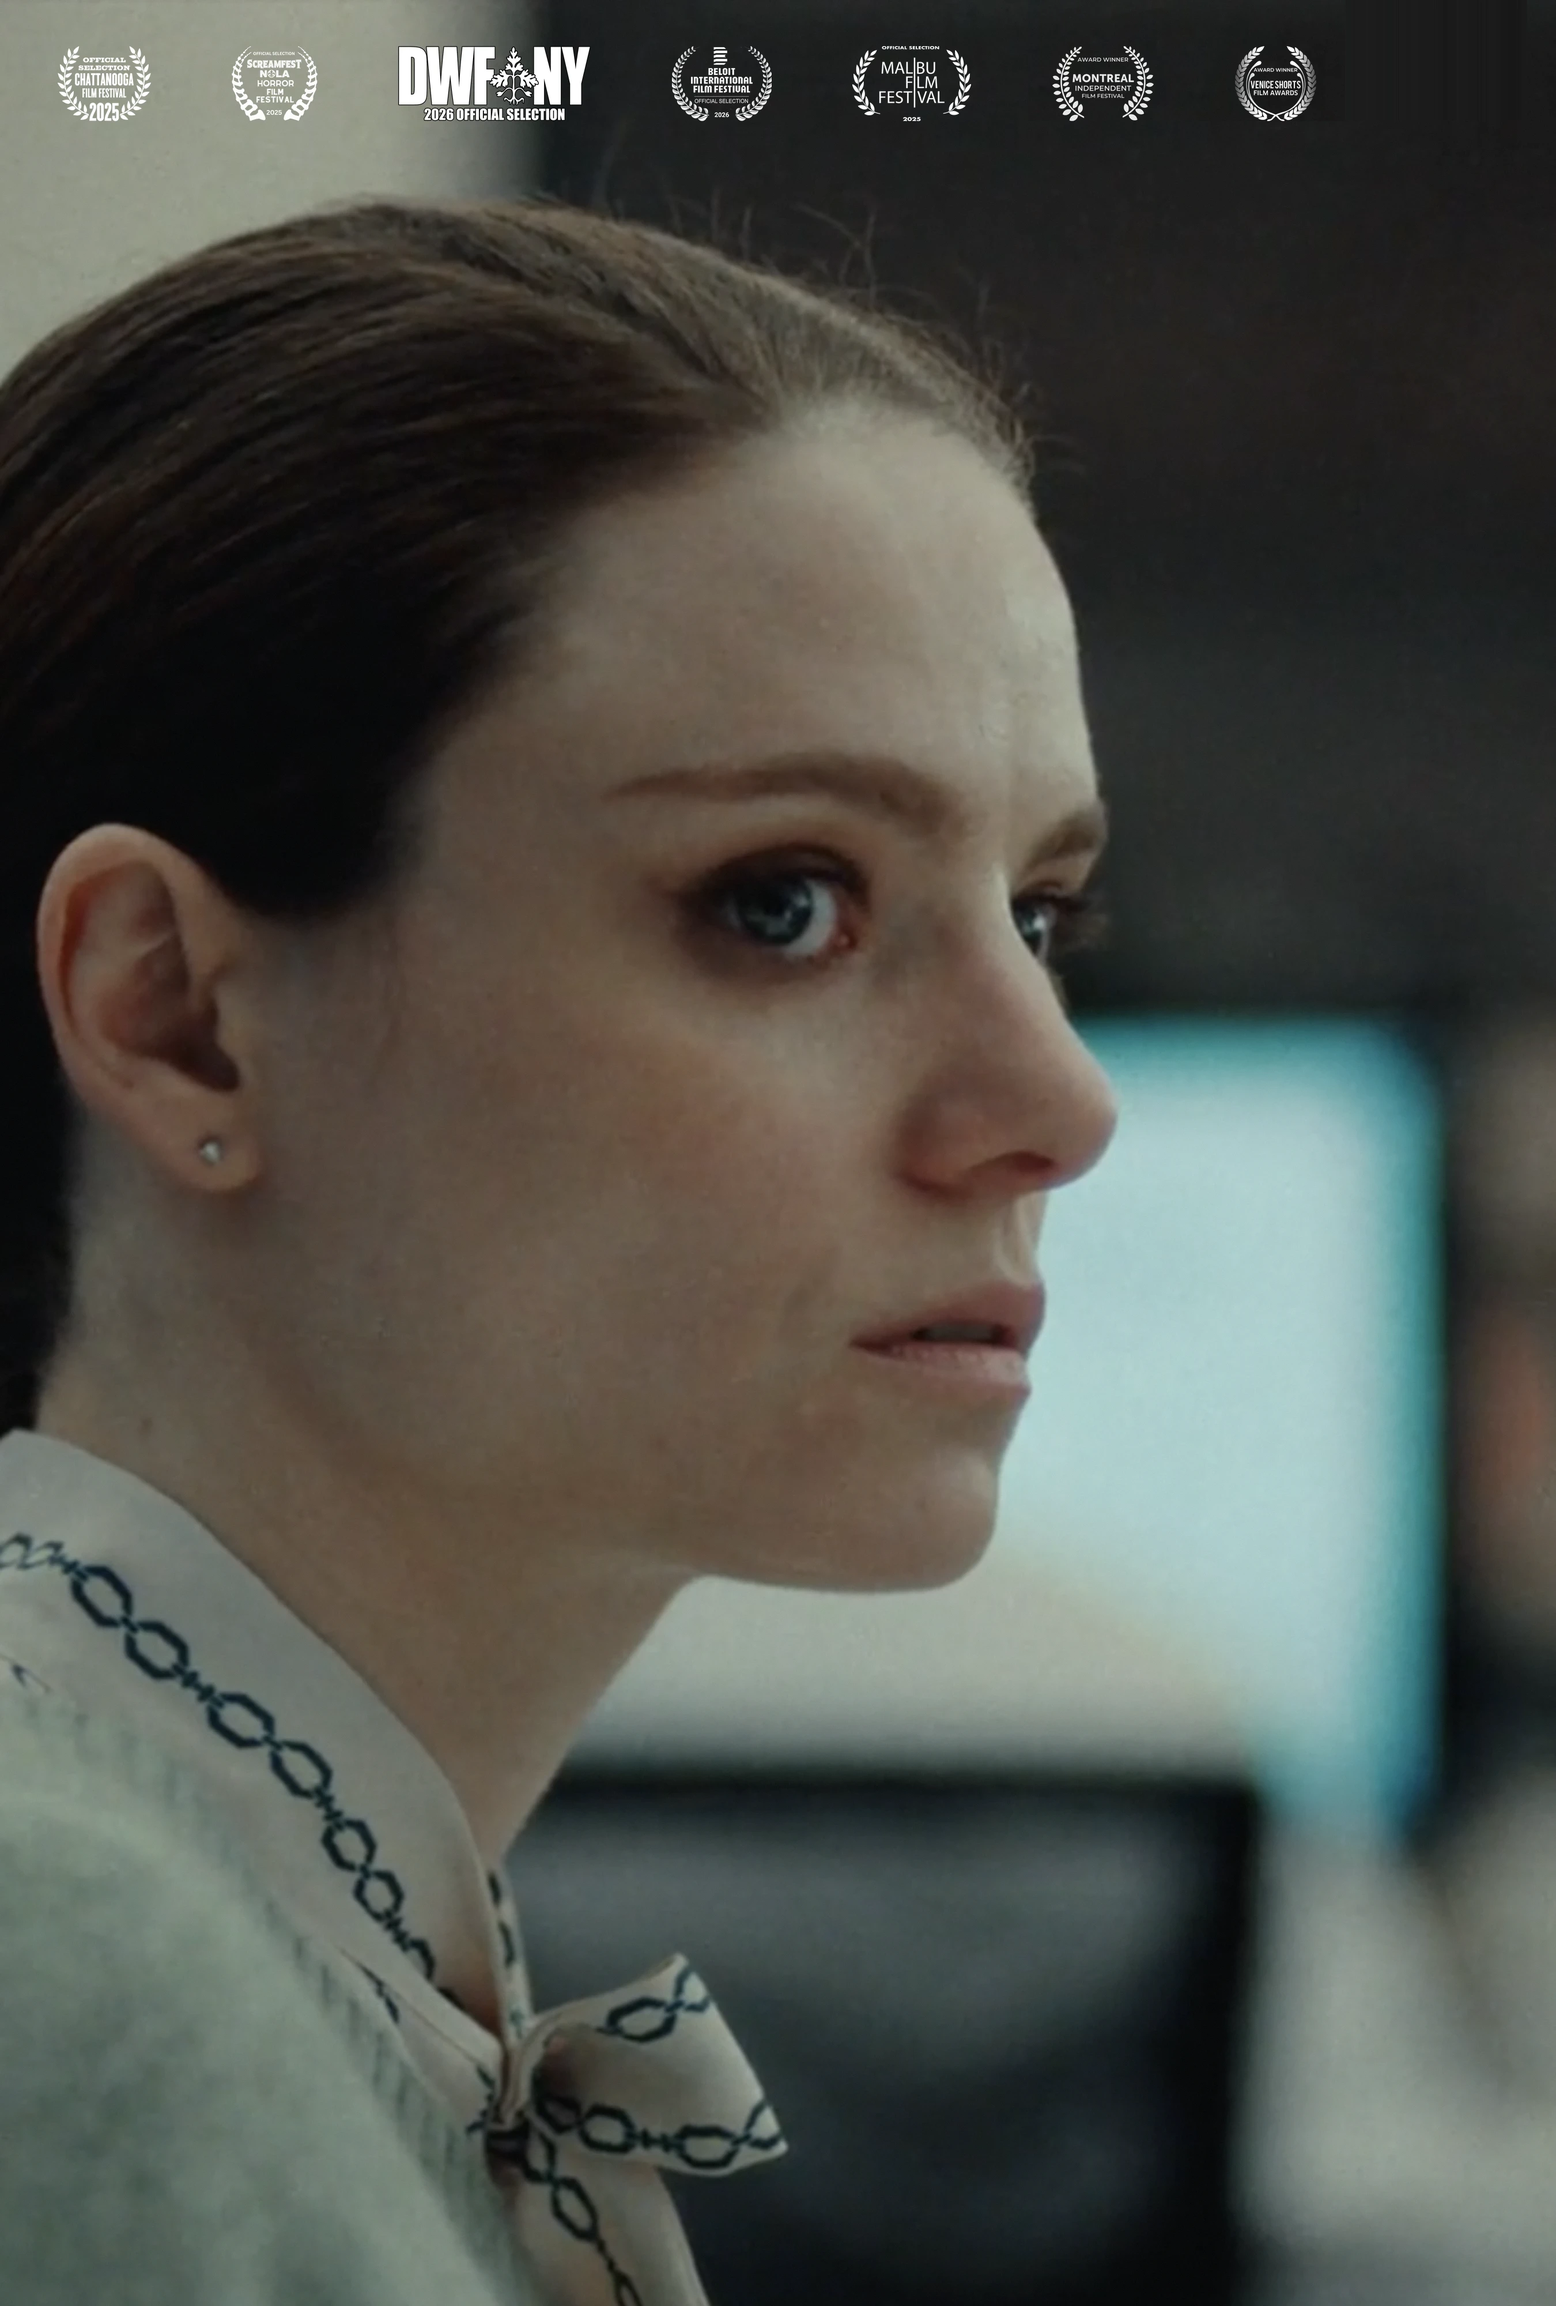
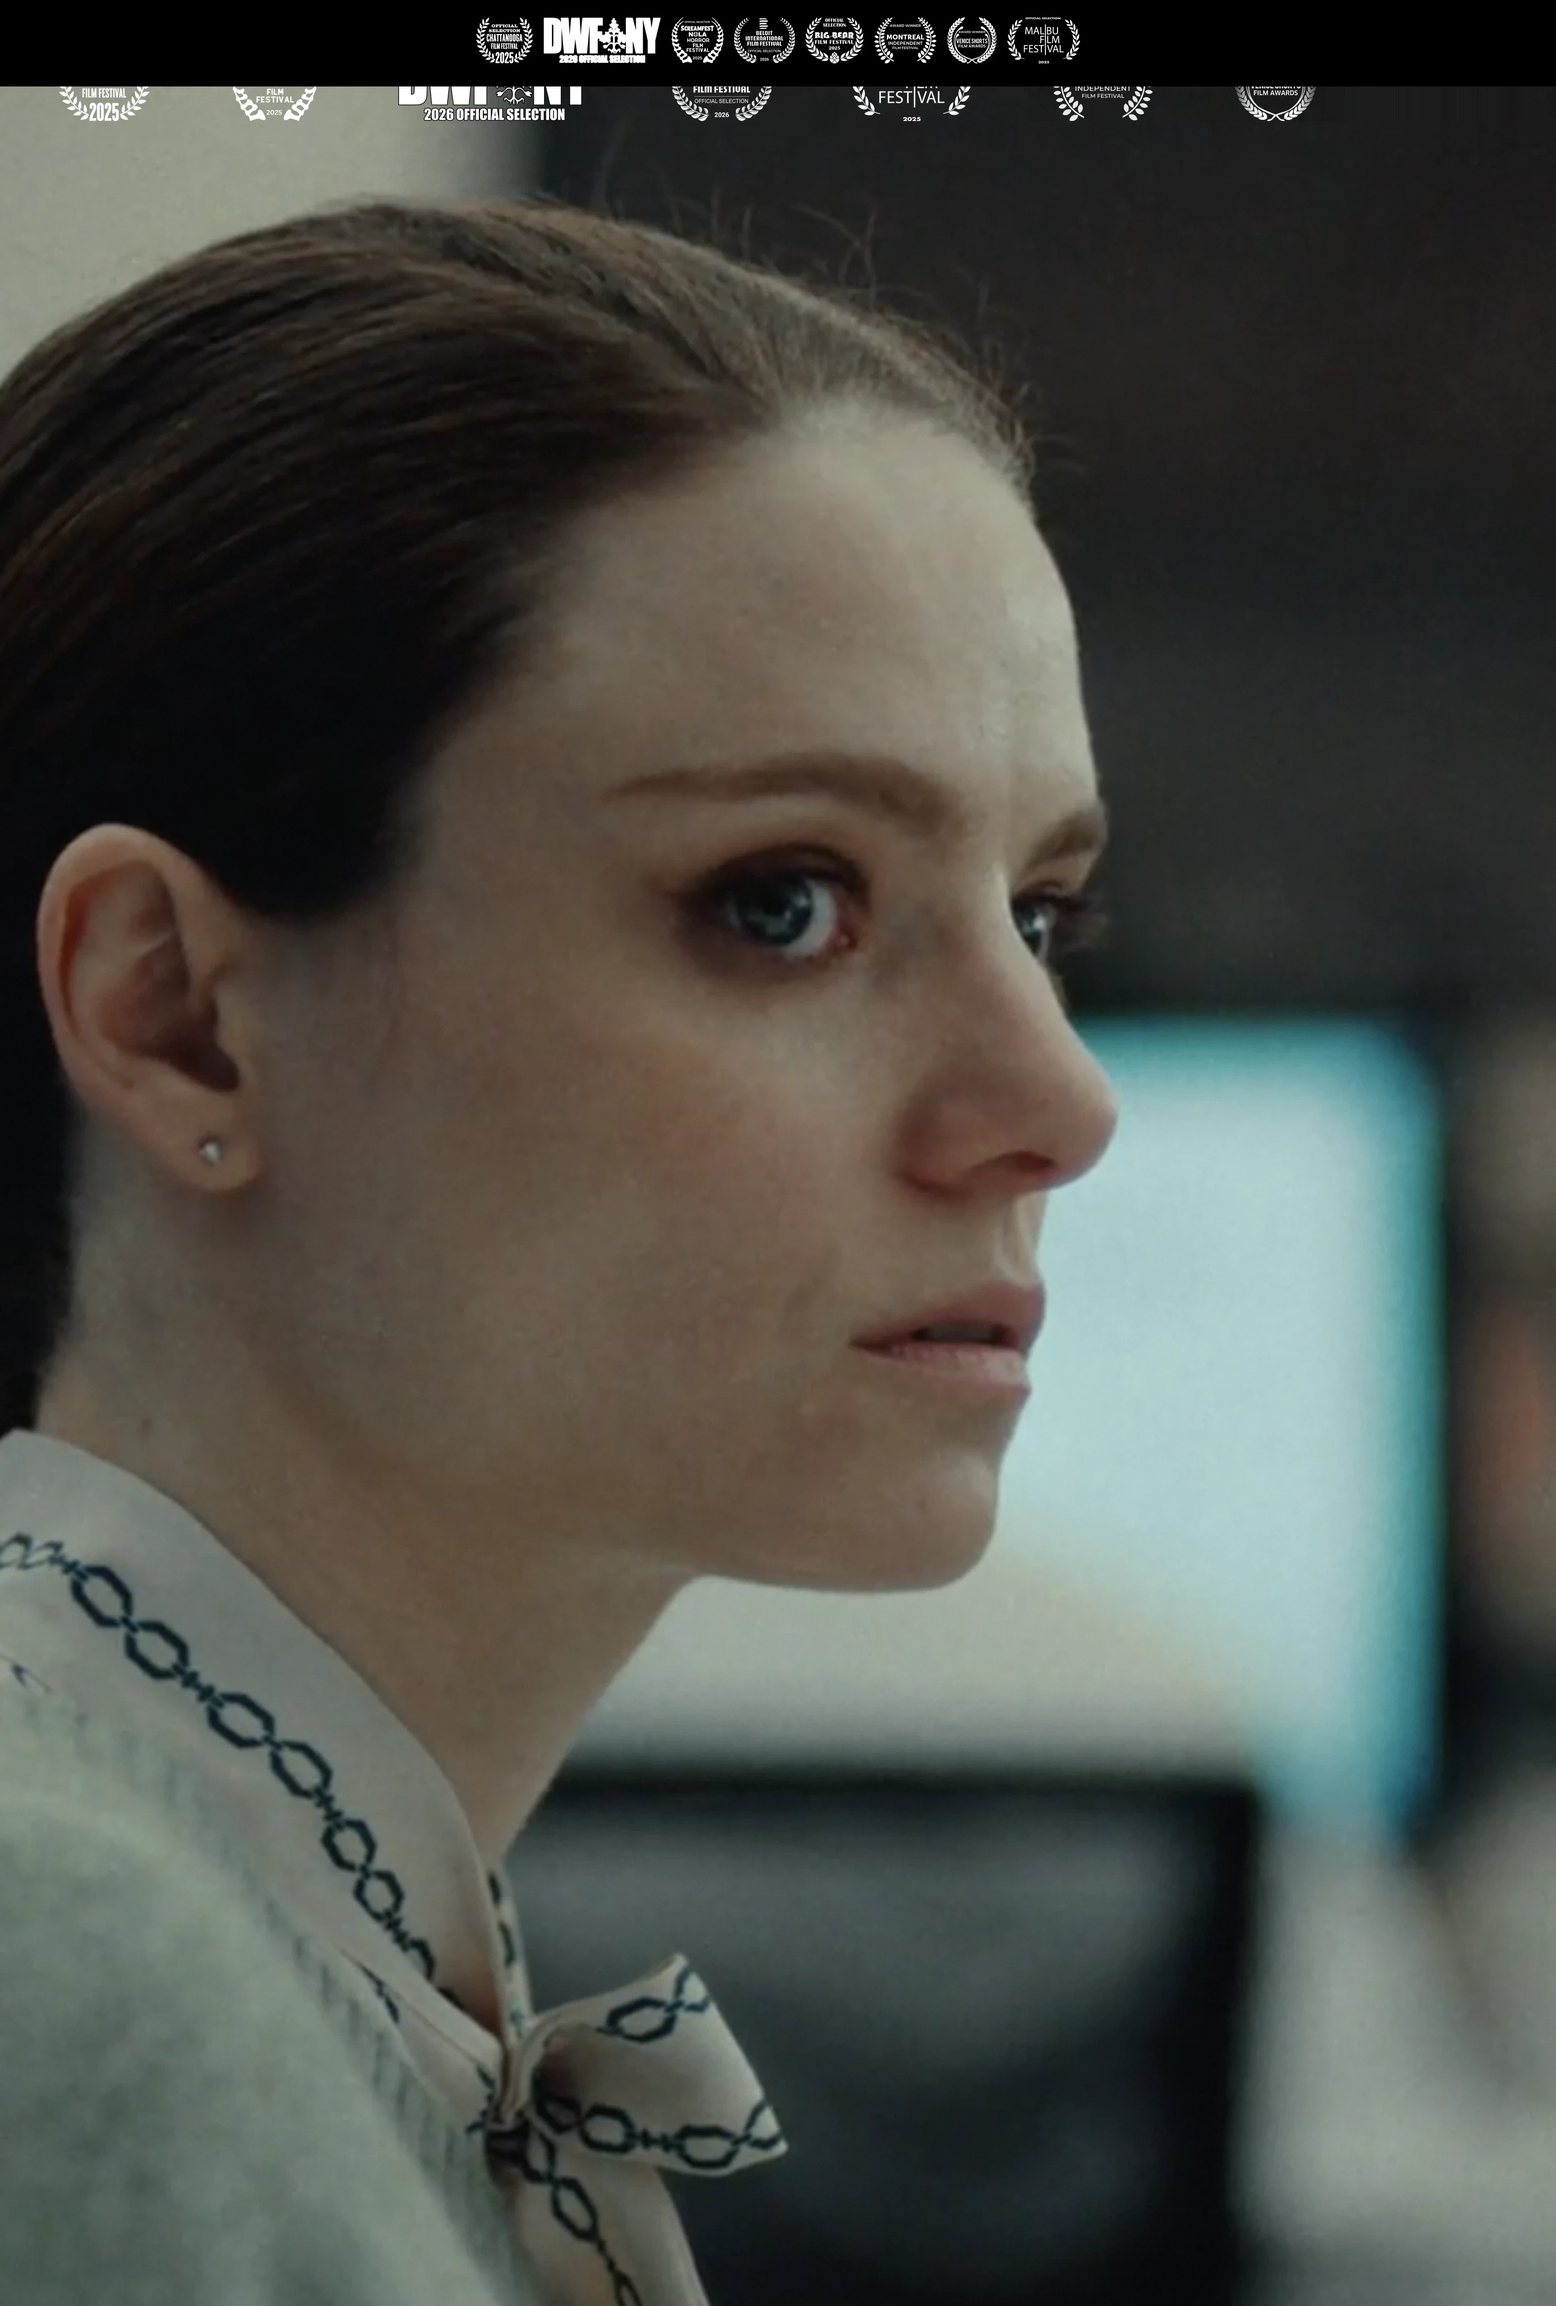
Fix poster laurels, button fix

Changed region(s): [[0.0, 0.0, 1.0, 0.0625]]

diff --git a/index.html b/index.html
@@ -2004,10 +2004,26 @@
         gap: 12px; 
         align-items: stretch;
       }
-      .text-link { 
+      .text-link {
         justify-content: center;
         padding: 14px 20px;
         font-size: 0.8rem;
+        height: 48px;
+        display: inline-flex;
+        align-items: center;
+      }
+      .hr-bottom-links {
+        flex-direction: column !important;
+        gap: 16px !important;
+        align-items: stretch !important;
+        margin-top: 40px !important;
+      }
+      .hr-bottom-links .text-link {
+        height: 48px !important;
+        font-size: 0.9rem !important;
+        padding: 14px 24px !important;
+        justify-content: center;
+        width: 100%;
       }
 
       /* Laurels mobile */
@@ -2463,9 +2479,9 @@
           </div>
         </div>
 
-        <div style="display: flex; justify-content: center; gap: 40px; margin-top: 60px;">
-          <a href="/hr/deep" class="text-link" style="font-size: 1.1rem; padding: 16px 32px;">Deep Dive →</a>
-          <a href="/hr/characters" class="text-link" style="font-size: 1.1rem; padding: 16px 32px;">Meet the Characters →</a>
+        <div class="hr-bottom-links" style="display: flex; justify-content: center; gap: 40px; margin-top: 60px;">
+          <a href="/hr/deep" class="text-link" style="font-size: 1.1rem; padding: 16px 32px; height: 54px; display: inline-flex; align-items: center;">Deep Dive →</a>
+          <a href="/hr/characters" class="text-link" style="font-size: 1.1rem; padding: 16px 32px; height: 54px; display: inline-flex; align-items: center;">Characters →</a>
         </div>
       </div>
     </div>
